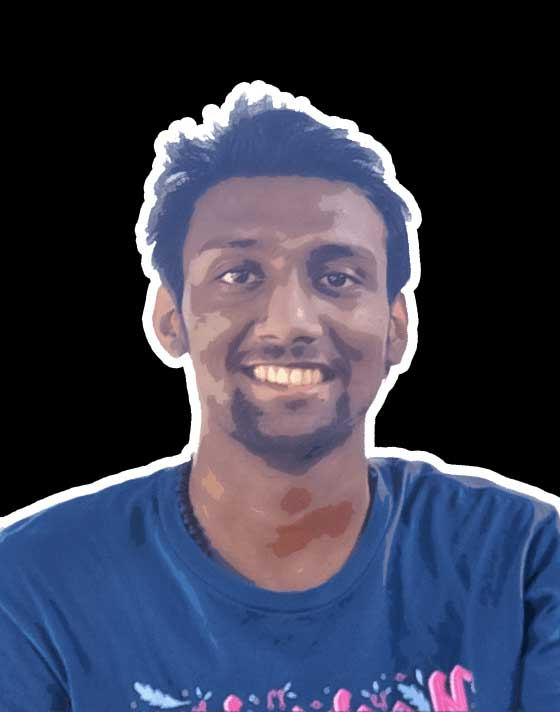
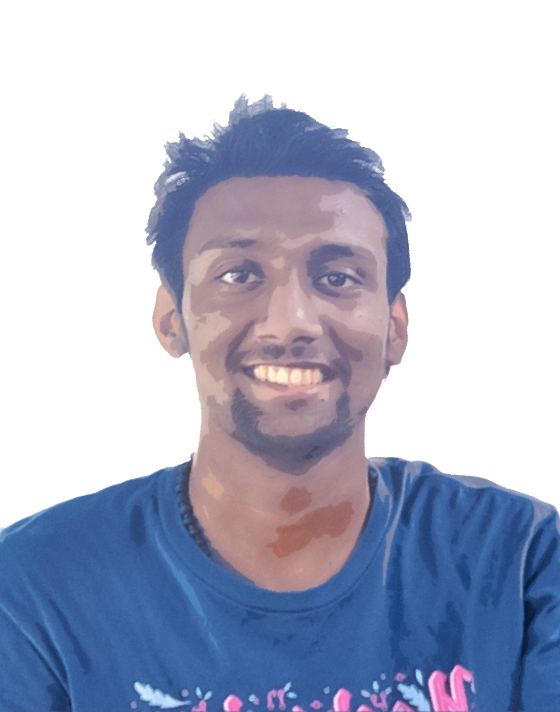
Updated member details

diff --git a/src/resources/members.js b/src/resources/members.js
@@ -9,6 +9,13 @@ import Abhay from "../assets/images/committee/members/abhay.jpg";
 import Ajay from "../assets/images/committee/members/ajay.jpg";
 import Sheikh from "../assets/images/committee/members/sheikh.jpg";
 import Adhil from "../assets/images/committee/members/adil.jpg";
+import Calvin from "../assets/images/committee/members/Calvin_1.jpg";
+import Favaz from "../assets/images/committee/members/favaz1.jpg";
+import Anagha from "../assets/images/committee/members/anag.jpg";
+import Niranjan from "../assets/images/committee/members/Niranjan_1.jpg";
+import AdhilKP from "../assets/images/committee/members/adhil-kp.jpg";
+import Allwyn from "../assets/images/committee/members/allwyn.jpg";
+
 import Adhil2 from "../assets/images/committee/members/adil1.jpg";
 import Abhay2 from "../assets/images/committee/members/abhay1.jpg";
 import Ajay2 from "../assets/images/committee/members/ajay1.jpg";
@@ -18,7 +25,15 @@ import Neha2 from "../assets/images/committee/members/neha.jpg";
 import Shuaib2 from "../assets/images/committee/members/shuaib.jpg";
 import Sheikh2 from "../assets/images/committee/members/sheikh1.jpg";
 import Saneef2 from "../assets/images/committee/members/saneef1.jpg";
-import Aashik2 from "../assets/images/committee/members/ashik1.jpg";
+import Calvin2 from "../assets/images/committee/members/Calvin.jpg";
+import Favaz2 from "../assets/images/committee/members/favaz.jpg";
+import Anagha2 from "../assets/images/committee/members/anagha.jpg";
+import Niranjan2 from "../assets/images/committee/members/Niranjan.jpg";
+import AdhilKP1 from "../assets/images/committee/members/adhil-kp1.jpg";
+import Allwyn1 from "../assets/images/committee/members/Allwyn.jpg";
+import Aashik1 from "../assets/images/committee/members/ashik1.jpg";
+
+
 
 const members = [
   {
@@ -42,9 +57,9 @@ const members = [
     linkedIn: "https://www.linkedin.com/in/aadil-kp-6a17351a2/",
     description: "",
     picture: {
-      original: TempImage,
-      cartoon: TempImage,
-      white: TempImage,
+      original: AdhilKP,
+      cartoon: AdhilKP,
+      white: AdhilKP1,
     },
   },
   {
@@ -58,21 +73,21 @@ const members = [
     picture: {
       original: Aashik,
       cartoon: Aashik,
-      white: Aashik2,
+      white: Aashik1,
     },
   },
+ 
   {
-    name: "Anagha Suresh",
+    name: "Anagha",
     position: "Joint Convenor",
     group: "Nucleus",
     email: "anaghasureshbabu24@gmail.com",
     linkedIn: "https://www.linkedin.com/in/anagha-suresh-913416171",
-    description:
-      "Artificial intelligence will play a pivotal role in the coming future. AI gradually changes society and improve the convenience and comfort of human.",
+    description: "Artificial intelligence will play a pivotal role in the coming future. AI gradually changes society and improve the convenience and comfort of human.",
     picture: {
-      original: TempImage,
-      cartoon: TempImage,
-      white: TempImage,
+      original: Anagha,
+      cartoon: Anagha,
+      white: Anagha2,
     },
   },
   {
@@ -95,12 +110,11 @@ const members = [
     group: "Nucleus",
     email: "favaztp696@gmail.com",
     linkedIn: "https://www.linkedin.com/in/muhammed-favaz-t-p-48849a164",
-    description:
-      "Democratize AI. Create an AI ecosystem which is acessible for all.",
+    description: "Democratize AI. Create an AI ecosystem which is acessible for all.",
     picture: {
-      original: TempImage,
-      cartoon: TempImage,
-      white: TempImage,
+      original: Favaz,
+      cartoon: Favaz,
+      white: Favaz2,
     },
   },
   {
@@ -123,12 +137,11 @@ const members = [
     group: "Node",
     email: "calvinwilson2017@gmail.com",
     linkedIn: "https://www.linkedin.com/in/calvin-wilson-254002186/",
-    description:
-      "AI is likely to be either the best or worst thing to happen to humanity.",
+    description: "AI is likely to be either the best or worst thing to happen to humanity.",
     picture: {
-      original: TempImage,
-      cartoon: TempImage,
-      white: TempImage,
+      original: Calvin,
+      cartoon: Calvin,
+      white: Calvin2,
     },
   },
   {
@@ -151,8 +164,7 @@ const members = [
     group: "Dendrites",
     email: "ttsaneef99@gmail.com",
     linkedIn: "https://www.linkedin.com/in/saneef-tt-008915151/",
-    description:
-      "The era of Artificial Intelligence will not be the era of war, but be the era of deep compassion, non-violence, and love.",
+    description: "The era of Artificial Intelligence will not be the era of war, but be the era of deep compassion, non-violence, and love.",
     picture: {
       original: Saneef,
       cartoon: Saneef,
@@ -178,11 +190,11 @@ const members = [
     group: "Axon",
     email: "",
     linkedIn: "https://www.linkedin.com/in/allwynsunil/",
-    description: "",
+    description: "Deeplearning is glorified linear algebra and calculus",
     picture: {
-      original: TempImage,
-      cartoon: TempImage,
-      white: TempImage,
+      original: Allwyn,
+      cartoon: Allwyn,
+      white: Allwyn1,
     },
   },
   {
@@ -191,7 +203,7 @@ const members = [
     group: "Axon",
     email: "navaneethsdk@gmail.com",
     linkedIn: "https://www.linkedin.com/in/navaneeth-dinesh-216a45175/",
-    description: "",
+    description: "Aren't we all conscious mortal machines made of organic material. Time to change the material!",
     picture: {
       original: Navaneeth,
       cartoon: Navaneeth,
@@ -239,7 +251,7 @@ const members = [
     },
   },
   {
-    name: "Niranjan",
+    name: "Niranjan Neelakantan",
     position: "Execom",
     group: "Axon",
     email: "niranjan2neelakantan@gmail.com",
@@ -247,9 +259,9 @@ const members = [
     description:
       "We're making this analogy that AI is the new electricity. Electricity transformed industries: agriculture, transportation, communication, manufacturing",
     picture: {
-      original: TempImage,
-      cartoon: TempImage,
-      white: TempImage,
+      original: Niranjan,
+      cartoon: Niranjan,
+      white: Niranjan2,
     },
   },
 ];
